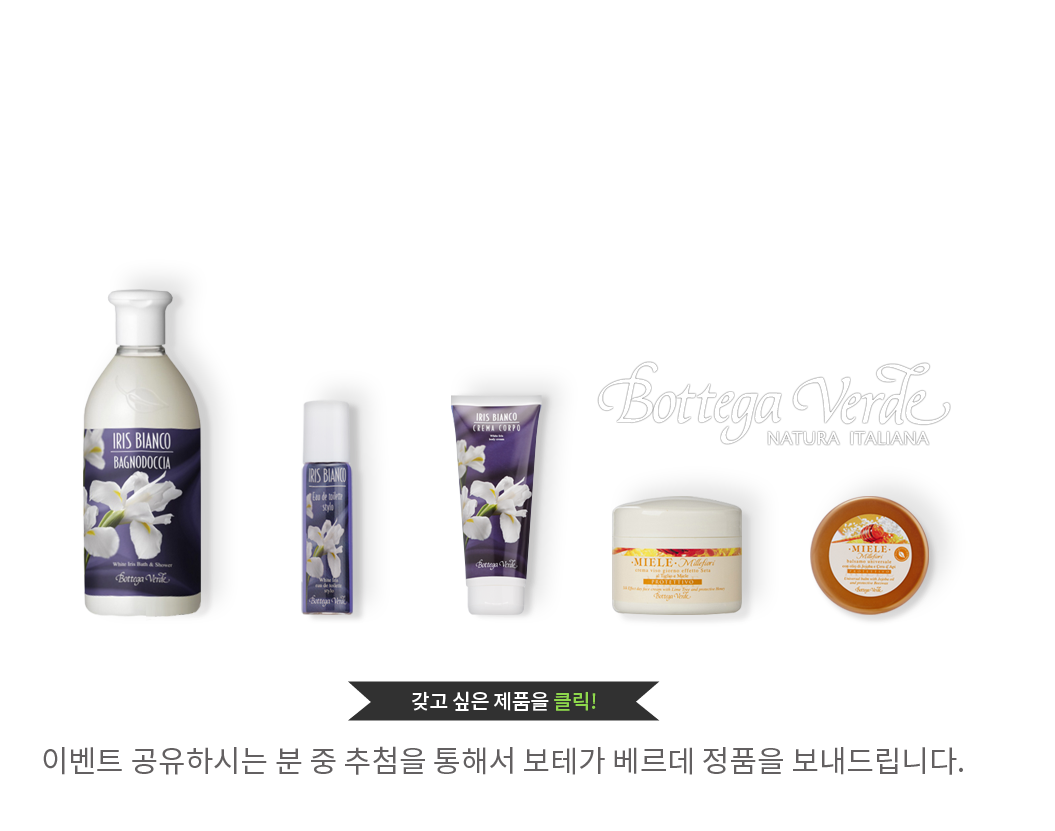
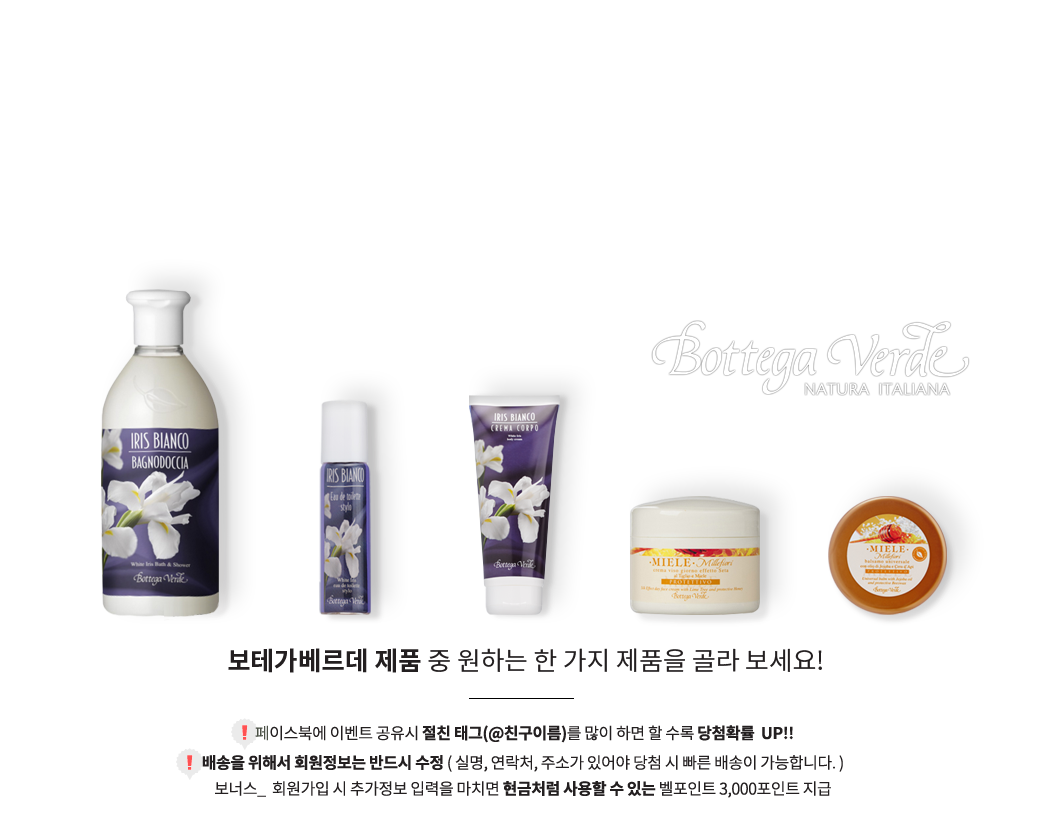
브랜드위크 이미지, css 수정

diff --git a/web_page/css/event.css b/web_page/css/event.css
@@ -86,7 +86,6 @@ ul.list-comments li p a {color:#6896ea;}
 .event .container .btns_wrap { overflow: hidden; position: static; left: auto; float: none; margin-top: 10px; }
 .event .container .btns_wrap .btns { position: static; float: right; margin: 0; }
 
-
 /* brand week */
 #contents.about .container .location {top:-9999em;}
 #contents.about .container > section {margin-top:0; width:100%; min-width:980px;}
@@ -99,7 +98,7 @@ ul.list-comments li p a {color:#6896ea;}
 .intro img{display:inline-block;}
 .btn_select_event:focus{outline:none;} /* tester box 공통 */
 
-.join {text-align:center;}
+.join {text-align:center; background:url(../images/event/bg_brandweek4-2.gif) repeat-x;}
 .join img{display:inline-block;}
 
 .product {text-align:center; background:url(../images/event/bg_brandweek4-3.png) no-repeat center top; background-size:contain; position:relative;}

diff --git a/web_page/html/content/ev2_brand_week.html b/web_page/html/content/ev2_brand_week.html
@@ -16,7 +16,7 @@
 		<section class="intro">
 			<img src="../images/event/brandweek4-1.png" usemap="#btn_1" alt="brand week" class="bw4-1" />
 			<map name="btn_1">
-				<area shape="rect" coords="730,150,930,350" href="#select_product" class="btn_select_event" />
+				<area shape="rect" coords="730,150,1500,350" href="#select_product" class="btn_select_event" />
 			</map>
 		</section>
 		
